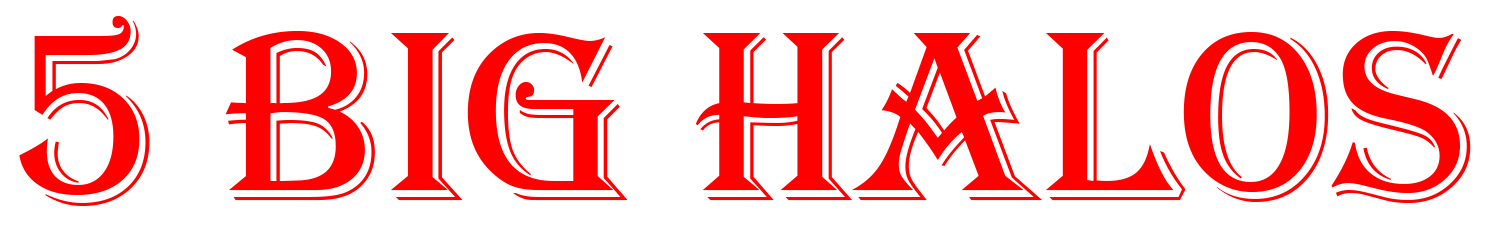
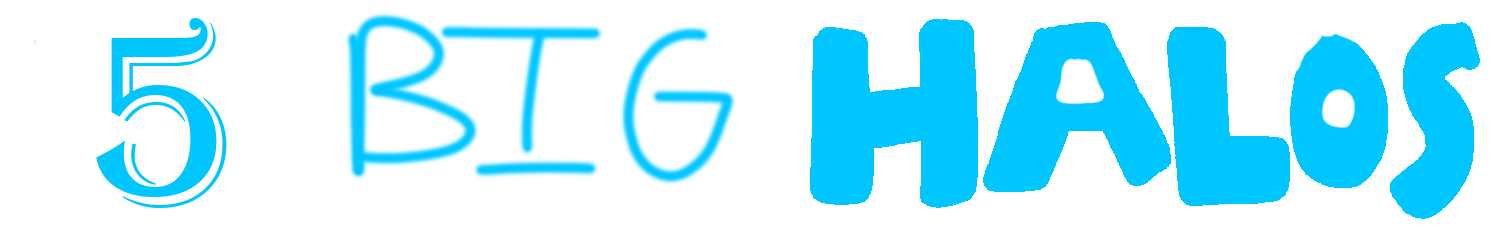
Changed the title screen to have my own logographic

diff --git a/src/scenes/game.js b/src/scenes/game.js
@@ -36,34 +36,34 @@ class GameScene extends Phaser.Scene {
         onceuponatime.setAlign("center")
         onceuponatime.setOrigin(0.5, 0.5)
 
-        let youdied = this.add.text(phaserCfg.width / 2, phaserCfg.height / 4 * 3 + 100, "You died and I lived")
-        youdied.setFontFamily("Century Gothic")
+        let youdied = this.add.text(phaserCfg.width / 2, phaserCfg.height / 4 * 3 + 150, "You died and I lived\nthe end\n(died of cringe)")
+        youdied.setFontFamily("Comic Sans MS")
         youdied.setFontSize(48)
         youdied.setAlign("center")
         youdied.setOrigin(0.5, 0.5)
         youdied.setAlpha(0)
 
-        let theend = this.add.text(phaserCfg.width / 2, phaserCfg.height / 4 * 3 + 200, "the end")
-        theend.setFontFamily("Century Gothic")
-        theend.setFontSize(48)
-        theend.setAlign("center")
-        theend.setOrigin(0.5, 0.5)
-        theend.setAlpha(0)
+        // let theend = this.add.text(phaserCfg.width / 2, phaserCfg.height / 4 * 3 + 200, "the end")
+        // theend.setFontFamily("Century Gothic")
+        // theend.setFontSize(48)
+        // theend.setAlign("center")
+        // theend.setOrigin(0.5, 0.5)
+        // theend.setAlpha(0)
 
         fireaway.play()
 
         // Effects that require timing
+        // this.tweens.add({
+        //     targets: youdied,
+        //     alpha: 1,
+        //     duration: 500,
+        //     delay: delay += 2000
+        // })
         this.tweens.add({
             targets: youdied,
             alpha: 1,
             duration: 500,
-            delay: delay += 2000
-        })
-        this.tweens.add({
-            targets: theend,
-            alpha: 1,
-            duration: 500,
-            delay: delay += 2000,
+            delay: delay += 4000,
             onStart: () => fireaway.stop(),
             onComplete: () => {celeste.play()}
         })

diff --git a/src/scenes/menu.js b/src/scenes/menu.js
@@ -70,7 +70,7 @@ class TitleScene extends Phaser.Scene {
         menuMusic.play()
         this.add.tween({
             targets: halobg,
-            x: phaserCfg.width / 2,
+            x: phaserCfg.width / 4 * 3,
             duration: 3000,
         })
         this.add.tween({

diff --git a/README.md b/README.md
@@ -1,7 +1,7 @@
 # cmpm120-phaser-project
 Phaser project for school
 
-You can click on Play, when the text appears
+You can click on Play, when the title screen appears
 
 ## Credits
 
@@ -14,3 +14,21 @@ Master Chief: https://en.wikipedia.org/wiki/File:Master_chief_halo_infinite.png
 TheFatRat - Xenogenesis: https://www.youtube.com/watch?v=1aQ4HSheJhk \
 Fire Away - Valorant (no lyrics): Gameripped \
 Celeste - B side completed: Gamerip and combined
+
+## 8 key requirements
+
+3+ Scenes: there are 3+ scenes. I have a scene where you click to play the game, a splash scene, a title screen, and a scene that tells the story.
+
+2+ audio assets: I have recorded my own SFX for the splash, and for the music, I distorted them / bass boosted them using Adobe Premiere. I also extracted 2 of the audio assets directly from the game, and pieced them together.
+
+2+ image assets: I googled some of the images and downloaded them. Then, I change the color and added some objects on the image using Photoshop.
+
+2+ geometric shapes: I used Phaser to add them. I added an ellipse and an isotriangle.
+
+1+ logotype text: the text used for the title screen is a logotype text I used in Photoshop.
+
+1+ multi-line text block: the last scene contains a multiline text box that fades in.
+
+1+ fading scene transition (e.g. fade to black): There is a fading scene transition from the splash screen to the title screen
+
+1+ object motion animation: This is self-evident. You can see it with the text on the title screen.
